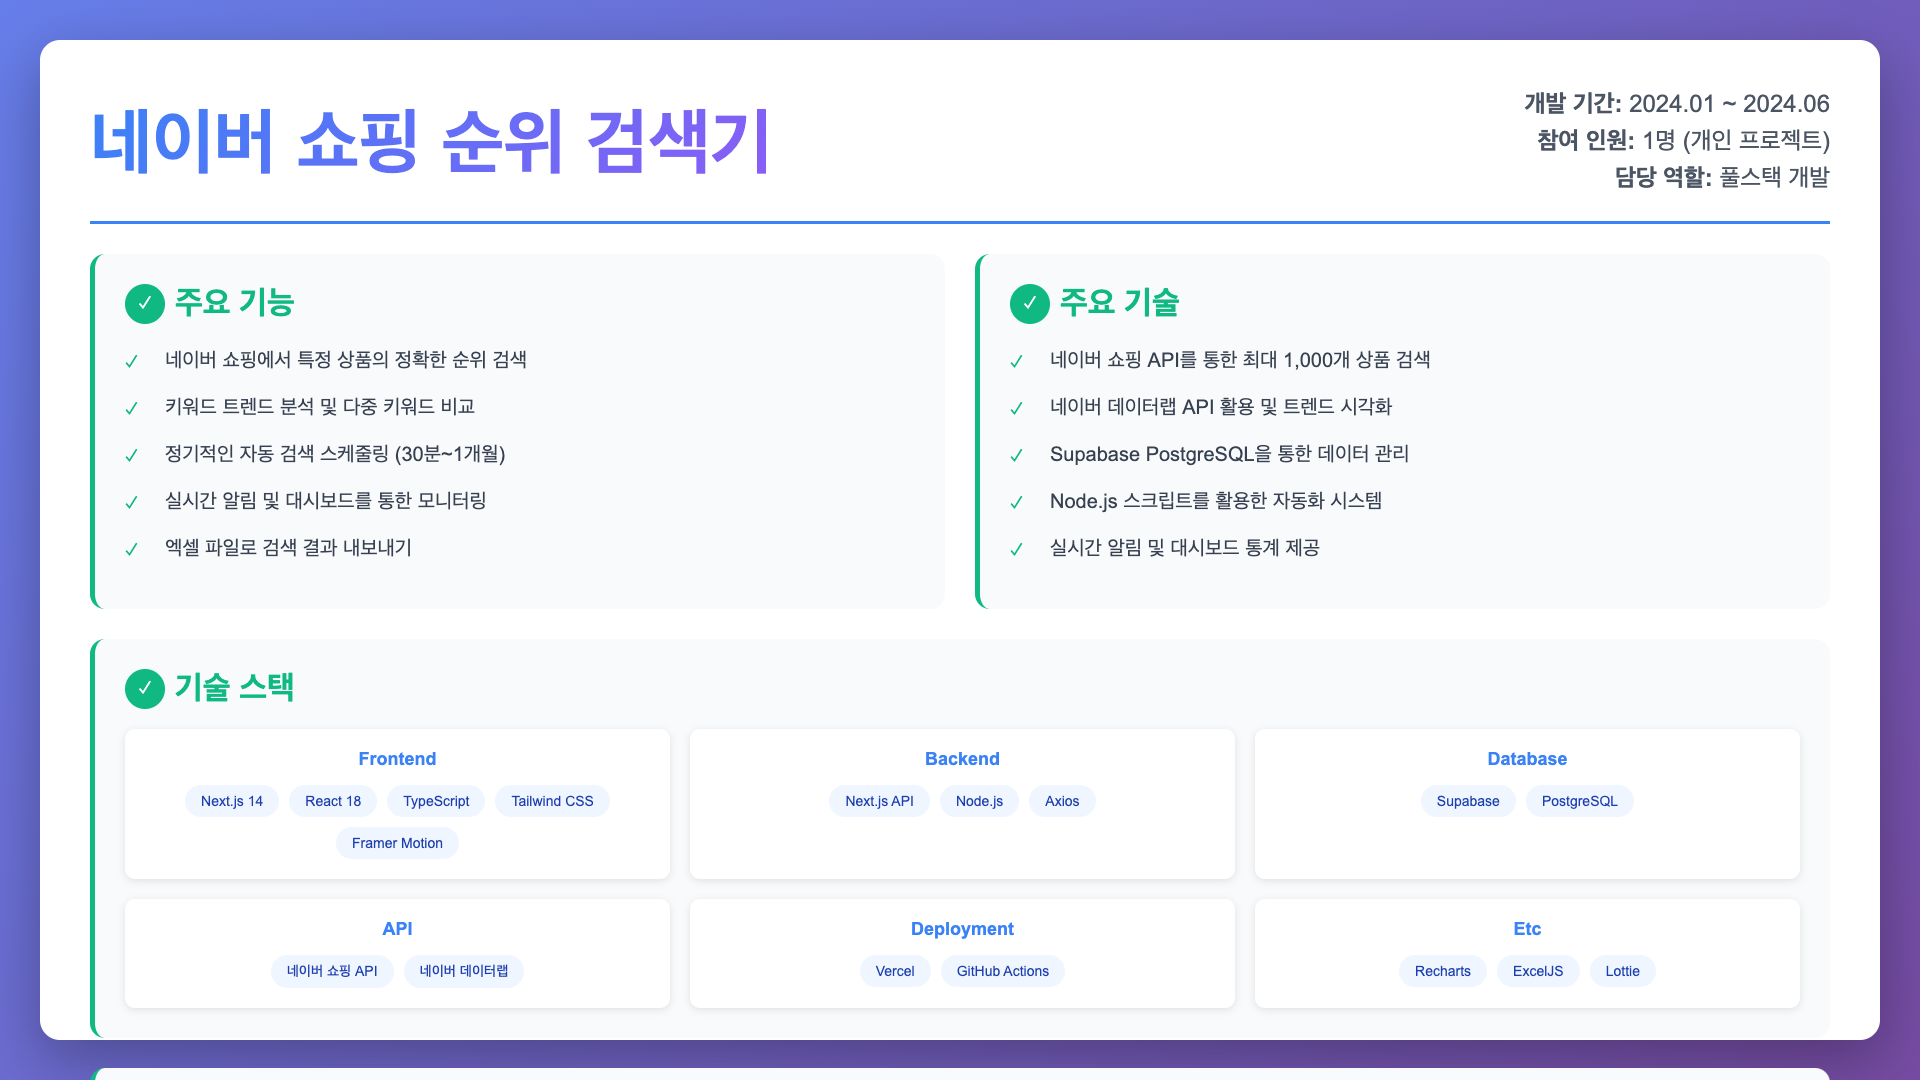
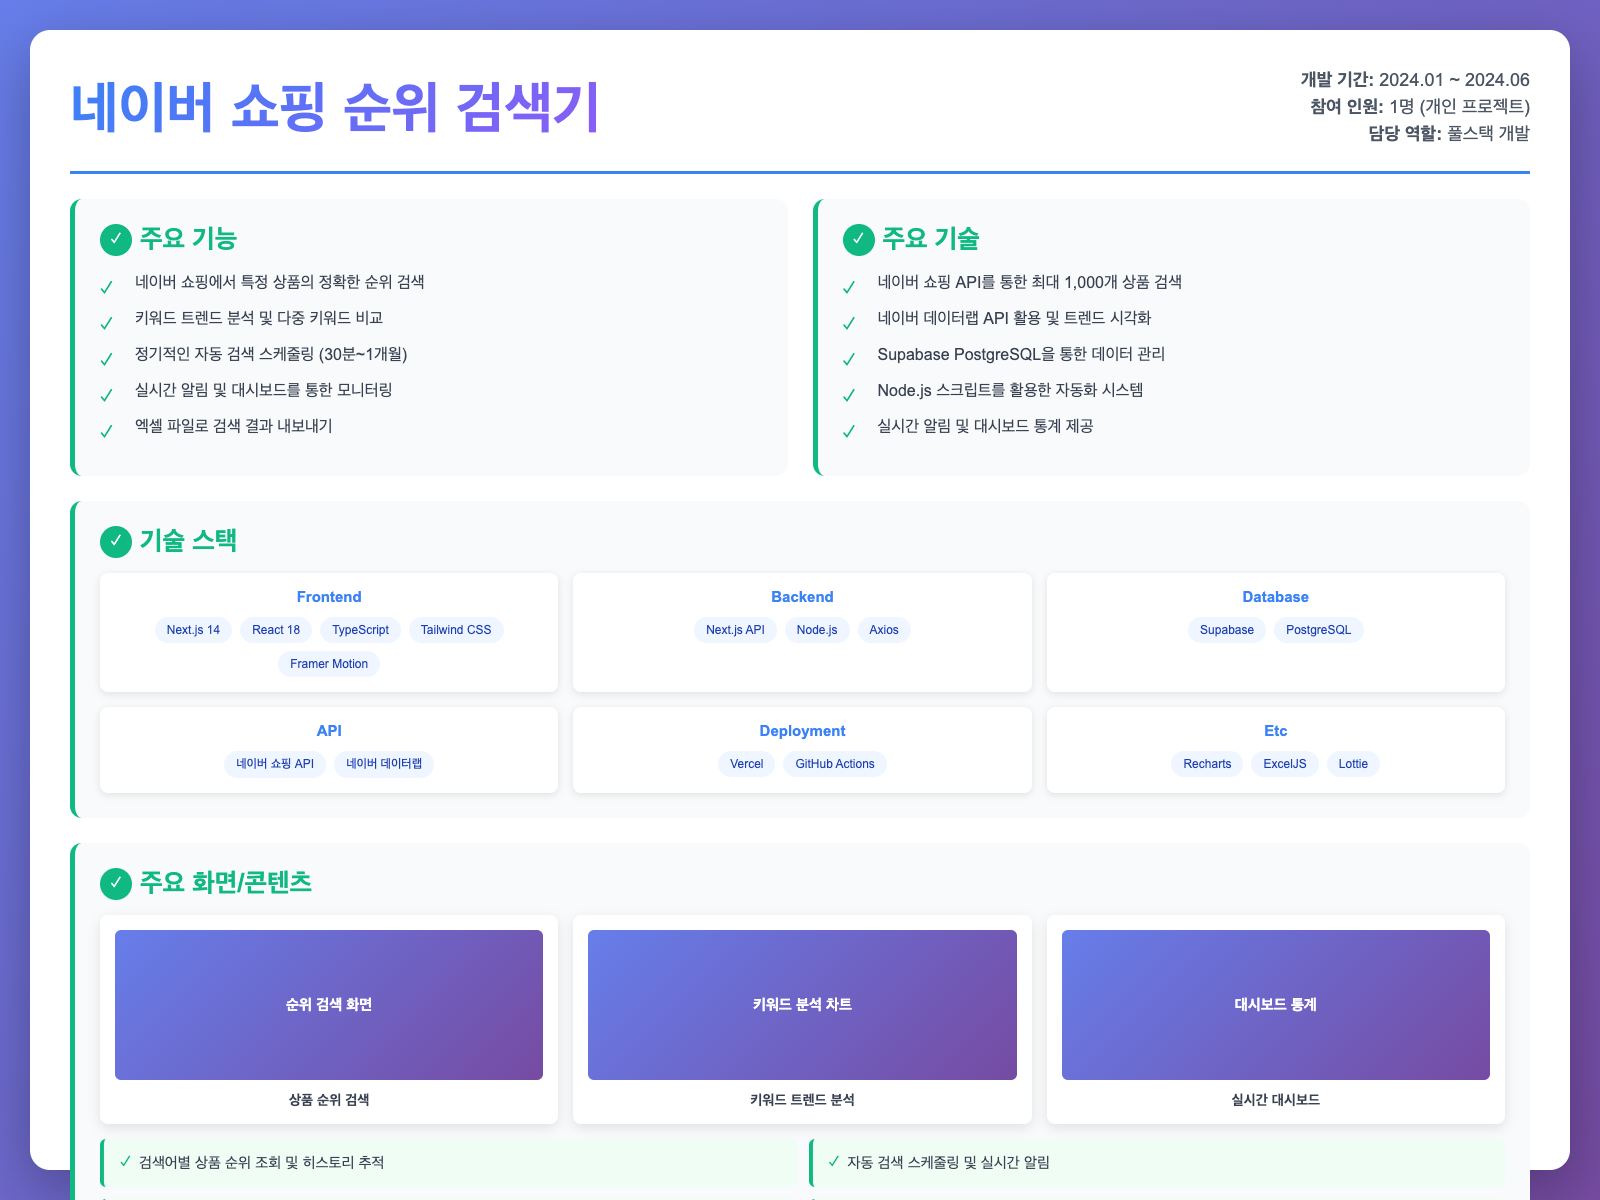
docs: 포스터를 4:3 비율(1600x1200)로 변경

diff --git a/docs/poster.html b/docs/poster.html
@@ -2,7 +2,7 @@
 <html lang="ko">
 <head>
     <meta charset="UTF-8">
-    <meta name="viewport" content="width=1920, height=1080">
+    <meta name="viewport" content="width=1600, height=1200">
     <title>네이버 쇼핑 순위 검색기</title>
     <style>
         * {
@@ -14,9 +14,9 @@
         body {
             font-family: 'Malgun Gothic', '맑은 고딕', Arial, sans-serif;
             background: linear-gradient(135deg, #667eea 0%, #764ba2 100%);
-            padding: 40px;
-            width: 1920px;
-            height: 1080px;
+            padding: 30px;
+            width: 1600px;
+            height: 1200px;
             position: relative;
             overflow: hidden;
         }
@@ -26,13 +26,13 @@
             width: 100%;
             height: 100%;
             border-radius: 20px;
-            padding: 50px;
+            padding: 40px;
             box-shadow: 0 20px 60px rgba(0,0,0,0.3);
             position: relative;
             display: grid;
             grid-template-columns: 1fr 1fr;
             grid-template-rows: auto 1fr;
-            gap: 30px;
+            gap: 25px;
         }
         
         .header {
@@ -45,7 +45,7 @@
         }
         
         .title {
-            font-size: 72px;
+            font-size: 56px;
             font-weight: bold;
             background: linear-gradient(135deg, #3b82f6 0%, #8b5cf6 100%);
             -webkit-background-clip: text;
@@ -55,42 +55,42 @@
         
         .team-info {
             text-align: right;
-            font-size: 24px;
+            font-size: 18px;
             color: #4b5563;
         }
         
         .team-info div {
-            margin-bottom: 8px;
+            margin-bottom: 6px;
         }
         
         .section {
             background: #f9fafb;
-            border-radius: 15px;
-            padding: 30px;
+            border-radius: 12px;
+            padding: 25px;
             border-left: 5px solid #10b981;
         }
         
         .section-title {
-            font-size: 32px;
+            font-size: 26px;
             font-weight: bold;
             color: #10b981;
-            margin-bottom: 20px;
+            margin-bottom: 15px;
             display: flex;
             align-items: center;
-            gap: 10px;
+            gap: 8px;
         }
         
         .section-title::before {
             content: '✓';
             background: #10b981;
             color: white;
-            width: 40px;
-            height: 40px;
+            width: 32px;
+            height: 32px;
             border-radius: 50%;
             display: flex;
             align-items: center;
             justify-content: center;
-            font-size: 24px;
+            font-size: 20px;
         }
         
         .feature-list, .tech-list {
@@ -98,12 +98,12 @@
         }
         
         .feature-list li, .tech-list li {
-            font-size: 20px;
+            font-size: 16px;
             color: #374151;
-            margin-bottom: 15px;
-            padding-left: 40px;
+            margin-bottom: 12px;
+            padding-left: 35px;
             position: relative;
-            line-height: 1.6;
+            line-height: 1.5;
         }
         
         .feature-list li::before, .tech-list li::before {
@@ -118,37 +118,37 @@
         .tech-stack {
             display: grid;
             grid-template-columns: repeat(3, 1fr);
-            gap: 20px;
-            margin-top: 20px;
+            gap: 15px;
+            margin-top: 15px;
         }
         
         .tech-category {
             background: white;
-            padding: 20px;
-            border-radius: 10px;
+            padding: 15px;
+            border-radius: 8px;
             box-shadow: 0 2px 8px rgba(0,0,0,0.1);
         }
         
         .tech-category-title {
-            font-size: 18px;
+            font-size: 15px;
             font-weight: bold;
             color: #3b82f6;
-            margin-bottom: 15px;
+            margin-bottom: 12px;
             text-align: center;
         }
         
         .tech-items {
             display: flex;
             flex-wrap: wrap;
-            gap: 10px;
+            gap: 8px;
             justify-content: center;
         }
         
         .tech-item {
             background: #eff6ff;
-            padding: 8px 16px;
-            border-radius: 20px;
-            font-size: 14px;
+            padding: 6px 12px;
+            border-radius: 16px;
+            font-size: 12px;
             color: #1e40af;
             font-weight: 500;
         }
@@ -157,34 +157,34 @@
             grid-column: 1 / -1;
             display: grid;
             grid-template-columns: repeat(3, 1fr);
-            gap: 20px;
-            margin-top: 20px;
+            gap: 15px;
+            margin-top: 15px;
         }
         
         .screenshot {
             background: white;
-            border-radius: 10px;
-            padding: 20px;
+            border-radius: 8px;
+            padding: 15px;
             box-shadow: 0 4px 12px rgba(0,0,0,0.1);
             text-align: center;
         }
         
         .screenshot-placeholder {
             width: 100%;
-            height: 200px;
+            height: 150px;
             background: linear-gradient(135deg, #667eea 0%, #764ba2 100%);
-            border-radius: 8px;
+            border-radius: 6px;
             display: flex;
             align-items: center;
             justify-content: center;
             color: white;
-            font-size: 18px;
+            font-size: 15px;
             font-weight: bold;
-            margin-bottom: 15px;
+            margin-bottom: 12px;
         }
         
         .screenshot-title {
-            font-size: 16px;
+            font-size: 14px;
             font-weight: bold;
             color: #374151;
         }
@@ -193,20 +193,20 @@
             grid-column: 1 / -1;
             display: grid;
             grid-template-columns: repeat(2, 1fr);
-            gap: 15px;
-            margin-top: 20px;
+            gap: 12px;
+            margin-top: 15px;
         }
         
         .additional-feature {
             background: #f0fdf4;
-            padding: 15px 20px;
-            border-radius: 8px;
+            padding: 12px 16px;
+            border-radius: 6px;
             border-left: 4px solid #10b981;
-            font-size: 18px;
+            font-size: 15px;
             color: #374151;
             display: flex;
             align-items: center;
-            gap: 10px;
+            gap: 8px;
         }
         
         .additional-feature::before {

diff --git a/docs/generate-poster.js b/docs/generate-poster.js
@@ -11,8 +11,8 @@ const fs = require('fs');
   
   await page.setContent(htmlContent, { waitUntil: 'networkidle' });
   
-  // 1920x1080 해상도로 스크린샷
-  await page.setViewportSize({ width: 1920, height: 1080 });
+  // 4:3 비율 (1600x1200) 해상도로 스크린샷
+  await page.setViewportSize({ width: 1600, height: 1200 });
   
   const outputPath = path.join(__dirname, 'poster.png');
   await page.screenshot({ 
